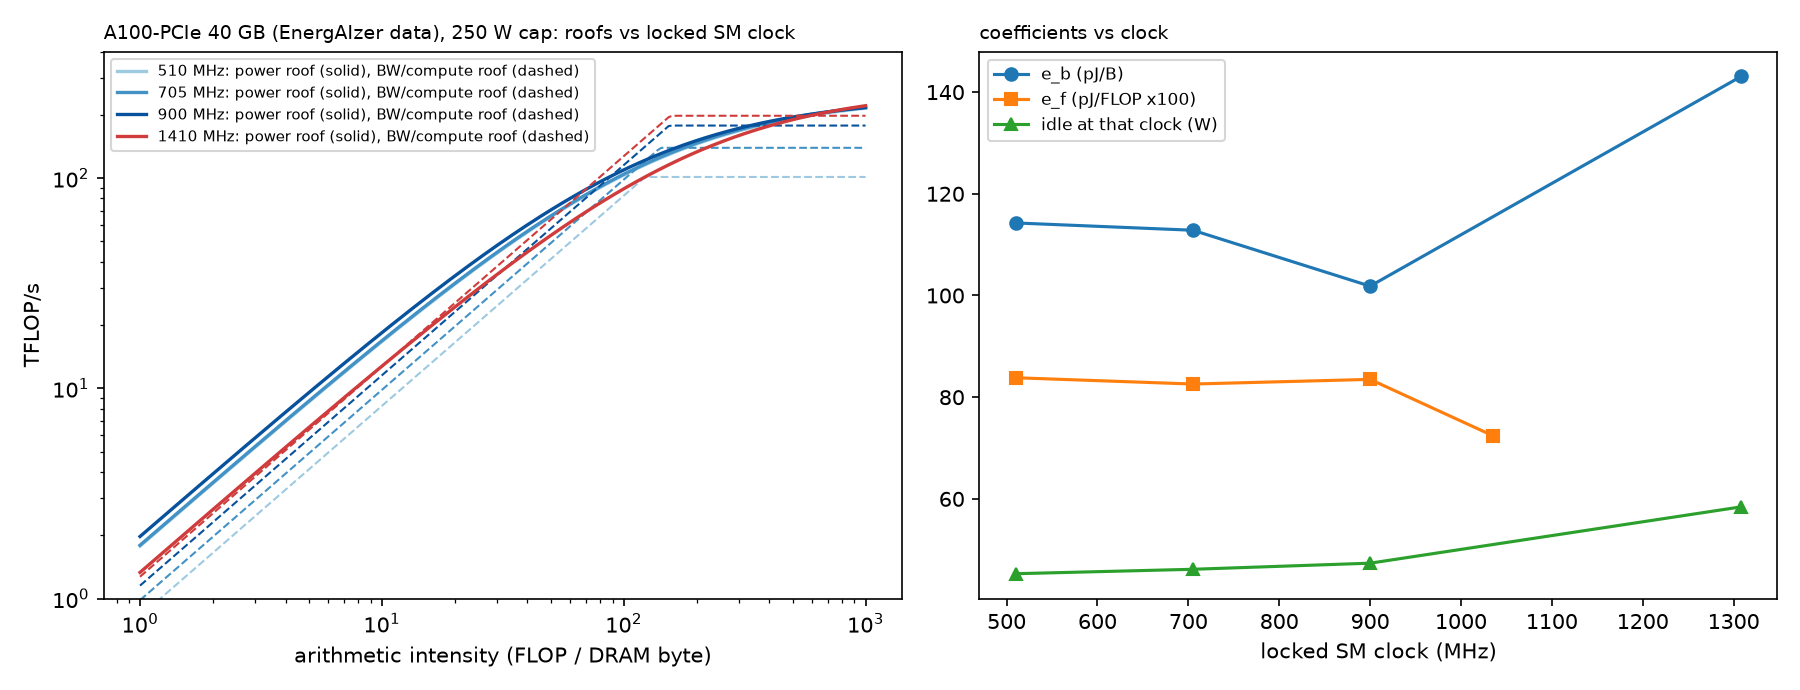
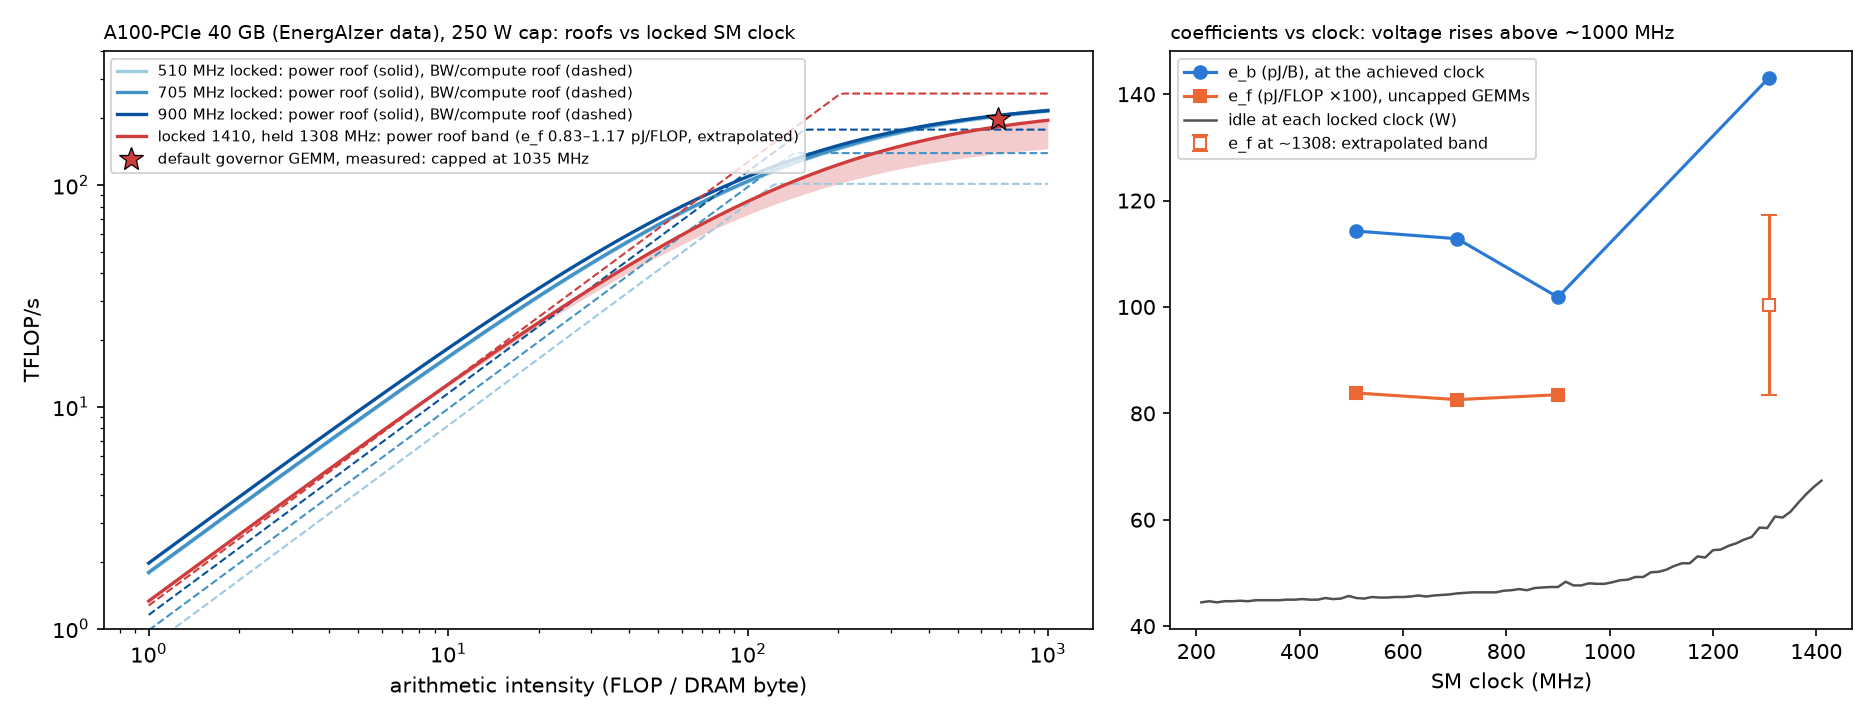
Clock roof: coefficients only from uncapped runs; at full clock the A100-PCIe 250 W cap binds from I ~ 10 up
The full-clock row used the default governor's capped GEMMs (1035 MHz, 243 W) as its compute
roof and fitted e_f from them against 1308 MHz idle and e_b: circular, and e_f biased low
(0.72). Now the row sits at the achieved 1308 MHz with measured BW, e_b and idle; the compute
roof is the locked clocks' linear 0.198 TF/s per MHz; e_f is a 0.83-1.17 pJ/FLOP band since no
GEMM above 900 MHz ran uncapped. The default governor's GEMM is plotted as a measured point.
Result: the cap binds from intensity ~10 up, including large GEMMs; an ideal governor still
loses 14-33% at I >= 100. LIT_ENERGAIZER: CUDA_Bench GEMMs use +-1 constant inputs, so e_f is
a low-activity floor.

diff --git a/GPU_power/liminal_energy/energaizer_clock_roof.py b/GPU_power/liminal_energy/energaizer_clock_roof.py
@@ -13,6 +13,16 @@ Per locked SM clock f (510, 705, 900, 1410 MHz; 'nolock' = the default governor)
 Power roof at the cap:  phi_P(I) = (P_cap - P_idle(f)) / (e_b/I + e_f)
 Attainable at clock f:  min(BW(f) * I, F(f), phi_P(I)); the envelope over f is what an
 ideal clock governor at the cap could reach.
+
+Coefficients come only from runs below the cap. 510/705/900 MHz are uncapped. At 1410 MHz there is
+a locked elementwise table, but it ran at ~1308 MHz at 240 W: e_b and BW are taken from it at its
+achieved clock and idle. There is no uncapped GEMM above 900 MHz (the default governor's GEMMs sit
+at the cap at ~1035 MHz), so at 1410:
+  The whole row sits at the achieved ~1308 MHz (even streaming cannot hold 1410 under the cap):
+  F        = the locked clocks' TF/MHz (linear: 0.198 at 510/705/900) x 1308
+  e_f      = a band: lo = e_f(900) (flat over 510-900 MHz), hi = e_f(900) * e_b(1410)/e_b(900)
+             (the per-byte energy's rise from 900 to ~1308 MHz as a voltage proxy)
+The default governor's capped GEMM is plotted as a measured point, not used as a roof.
   python3 liminal_energy/energaizer_clock_roof.py [--db /shared_data0/adsampat/lit/energaizer]
 Writes liminal_energy/energaizer_clock_roof.json and figs/fig_clock_roof.png.
 """
@@ -20,6 +30,7 @@ import argparse
 import json
 import os
 
+import numpy as np
 import pandas as pd
 
 HERE = os.path.dirname(os.path.abspath(__file__))
@@ -46,8 +57,9 @@ def load(db):
         pid = idle[str(int(round(fclk / 15) * 15))] if f != "nolock" else None
         r = dict(clock=f, elem_sm_mhz=fclk, bw=float(big.bw.median()), p_stream=float(big.P.median()),
                  p_idle=pid, n_elem=int(len(big)))
-        # no locked-1410 GEMM table: the default governor's GEMMs run at 1410 MHz (at the cap)
-        g = os.path.join(db, f"db/yz8_gemmex_bf16bf16_freq{'nolock' if f == '1410' else f}_noflush_lut_v2.csv")
+        # no locked-1410 GEMM table, and the default governor's GEMMs are capped (~1035 MHz): 1410's
+        # compute roof and e_f are extrapolated from the uncapped locked clocks in main()
+        g = os.path.join(db, f"db/yz8_gemmex_bf16bf16_freq{f}_noflush_lut_v2.csv")
         if os.path.exists(g):
             G = pd.read_csv(g)
             G["F"] = 2.0 * G.batch * G.dimM * G.dimN * G.dimK
@@ -73,7 +85,7 @@ def coefficients(r):
     pi_g = r["p_idle"] if r["p_idle"] is not None else r["p_idle_gemm"]
     e_b = (r["p_stream"] - pi_e) / r["bw"]
     e_f = None
-    if r.get("f_rate"):
+    if r.get("f_rate") and r.get("p_gemm") is not None:
         e_f = (r["p_gemm"] - pi_g - e_b * r["b_rate_gemm"]) / r["f_rate"]
     return dict(e_b=e_b, e_f=e_f, p_idle=pi_e)
 
@@ -96,14 +108,42 @@ def main():
     res = {}
     print(f"{'clock':>7} {'SM MHz':>7} {'idle W':>7} {'BW GB/s':>8} {'pJ/B':>6} {'TF/s':>6} {'pJ/FLOP':>8} "
           f"{'P_gemm':>7} | attainable TF/s (bound) at I = " + " ".join(f"{i:>6}" for i in IS))
+    # 1410: compute roof and e_f band from the uncapped locked clocks (see the docstring)
+    lk = [f for f in ("510", "705", "900") if data.get(f, {}).get("f_rate")]
+    tf_per_mhz = float(np.median([data[f]["f_rate"] / data[f]["gemm_sm_mhz"] for f in lk]))
+    c900 = coefficients(data["900"])
+    if "1410" in data:
+        r = data["1410"]
+        c14 = coefficients(r)
+        r.update(gemm_sm_mhz=r["elem_sm_mhz"], f_rate=tf_per_mhz * r["elem_sm_mhz"], b_rate_gemm=0.0, p_gemm=None, n_gemm=0,
+                 extrapolated=True, e_f_lo=c900["e_f"], e_f_hi=c900["e_f"] * c14["e_b"] / c900["e_b"],
+                 tf_per_mhz=tf_per_mhz)
     for f, r in data.items():
         c = coefficients(r)
+        if r.get("extrapolated"):
+            c["e_f"] = r["e_f_lo"]           # optimistic end of the band (highest power roof)
+        if f == "nolock":
+            r["capped"] = True             # default governor at the cap: a measured point, not a roof
         rows = [roof(r, c, I) for I in IS]
         res[f] = dict(r, **c, roof=rows)
         print(f"{f:>7} {r['elem_sm_mhz']:7.0f} {c['p_idle']:7.1f} {r['bw'] / 1e9:8.0f} {c['e_b'] * 1e12:6.0f} "
-              f"{r.get('f_rate', 0) / 1e12:6.0f} {(c['e_f'] or 0) * 1e12:8.2f} {r.get('p_gemm', 0):7.0f} | "
+              f"{r.get('f_rate', 0) / 1e12:6.0f} {(c['e_f'] or 0) * 1e12:8.2f} {(r.get('p_gemm') or 0):7.0f} | "
               + " ".join(f"{x['attainable_tf']:5.1f}{x['bound'][0]}" for x in rows))
     locked = [f for f in res if f != "nolock" and res[f].get("e_f") is not None]
+    # 1410 with the pessimistic end of the e_f band
+    if "1410" in res:
+        r = res["1410"]; ch = dict(e_b=r["e_b"], e_f=r["e_f_hi"], p_idle=r["p_idle"])
+        r["roof_hi_ef"] = [roof(r, ch, I) for I in IS]
+    # what the default governor actually got on its capped GEMMs
+    if "nolock" in res:
+        n = res["nolock"]
+        n["gemm_I"] = n["f_rate"] / n["b_rate_gemm"]
+        print(f"\ndefault governor GEMM (capped): {n['f_rate'] / 1e12:.0f} TF/s at {n['gemm_sm_mhz']:.0f} MHz, "
+              f"{n['p_gemm']:.0f} W, I = {n['gemm_I']:.0f}")
+    if "1410" in res:
+        r = res["1410"]
+        print(f"1410 lock (ran {r['elem_sm_mhz']:.0f} MHz) extrapolated: F = {r['f_rate'] / 1e12:.0f} TF/s ({r['tf_per_mhz'] / 1e9:.3f} TF/GHz), "
+              f"e_f band {r['e_f_lo'] * 1e12:.2f}-{r['e_f_hi'] * 1e12:.2f} pJ/FLOP, idle {r['p_idle']:.1f} W")
     env = []
     for k, I in enumerate(IS):
         best = max(locked, key=lambda f: res[f]["roof"][k]["attainable_tf"])
@@ -123,32 +163,49 @@ def plot(res, env):
     import matplotlib
     matplotlib.use("Agg")
     import matplotlib.pyplot as plt
-    import numpy as np
     Is = np.logspace(0, 3, 200)
-    fig, ax = plt.subplots(1, 2, figsize=(12, 4.6))
+    fig, ax = plt.subplots(1, 2, figsize=(12.5, 4.8), gridspec_kw=dict(width_ratios=[1.45, 1]))
     cols = {"510": "#9ecae1", "705": "#4292c6", "900": "#08519c", "1410": "#d03b3b"}
     a = ax[0]
     for f, col in cols.items():
         if f not in res or res[f].get("e_f") is None:
             continue
-        r, c = res[f], res[f]
+        r = res[f]
         un = [min(r["bw"] * I, r["f_rate"]) / 1e12 for I in Is]
-        pr = [(P_CAP - c["p_idle"]) / (c["e_b"] / I + c["e_f"]) / 1e12 for I in Is]
         a.plot(Is, un, color=col, ls="--", lw=1)
-        a.plot(Is, pr, color=col, lw=1.6, label=f"{f} MHz: power roof (solid), BW/compute roof (dashed)")
+        if r.get("extrapolated"):
+            lo = [(P_CAP - r["p_idle"]) / (r["e_b"] / I + r["e_f_hi"]) / 1e12 for I in Is]
+            hi = [(P_CAP - r["p_idle"]) / (r["e_b"] / I + r["e_f_lo"]) / 1e12 for I in Is]
+            a.fill_between(Is, lo, hi, color=col, alpha=0.25, lw=0)
+            a.plot(Is, hi, color=col, lw=1.6,
+                   label=f"locked 1410, held {r['elem_sm_mhz']:.0f} MHz: power roof band (e_f {r['e_f_lo'] * 1e12:.2f}–{r['e_f_hi'] * 1e12:.2f} pJ/FLOP, extrapolated)")
+        else:
+            pr = [(P_CAP - r["p_idle"]) / (r["e_b"] / I + r["e_f"]) / 1e12 for I in Is]
+            a.plot(Is, pr, color=col, lw=1.6, label=f"{f} MHz locked: power roof (solid), BW/compute roof (dashed)")
+    if "nolock" in res and res["nolock"].get("gemm_I"):
+        n = res["nolock"]
+        a.plot([min(n["gemm_I"], 1000)], [n["f_rate"] / 1e12], "*", ms=12, color="#d03b3b", mec="k", mew=0.6, zorder=5,
+               label=f"default governor GEMM, measured: capped at {n['gemm_sm_mhz']:.0f} MHz")
     a.set_xscale("log"); a.set_yscale("log"); a.set_ylim(1, 400)
     a.set_xlabel("arithmetic intensity (FLOP / DRAM byte)"); a.set_ylabel("TFLOP/s")
     a.set_title("A100-PCIe 40 GB (EnergAIzer data), 250 W cap: roofs vs locked SM clock", loc="left", fontsize=9)
-    a.legend(fontsize=7)
+    a.legend(fontsize=7, loc="upper left")
     a = ax[1]
     fs = [f for f in ["510", "705", "900", "1410"] if f in res]
     x = [float(res[f]["elem_sm_mhz"]) for f in fs]
-    a.plot(x, [res[f]["e_b"] * 1e12 for f in fs], "o-", label="e_b (pJ/B)")
-    a.plot([float(res[f]["gemm_sm_mhz"]) for f in fs if res[f].get("e_f")],
-           [res[f]["e_f"] * 1e12 * 100 for f in fs if res[f].get("e_f")], "s-", label="e_f (pJ/FLOP x100)")
-    a.plot(x, [res[f]["p_idle"] for f in fs], "^-", label="idle at that clock (W)")
-    a.set_xlabel("locked SM clock (MHz)"); a.legend(fontsize=8)
-    a.set_title("coefficients vs clock", loc="left", fontsize=9)
+    a.plot(x, [res[f]["e_b"] * 1e12 for f in fs], "o-", color="#2a78d6", label="e_b (pJ/B), at the achieved clock")
+    lk = [f for f in fs if not res[f].get("extrapolated")]
+    a.plot([float(res[f]["gemm_sm_mhz"]) for f in lk], [res[f]["e_f"] * 1e12 * 100 for f in lk], "s-", color="#eb6834",
+           label="e_f (pJ/FLOP ×100), uncapped GEMMs")
+    if "1410" in res:
+        r = res["1410"]
+        a.errorbar([r["elem_sm_mhz"]], [(r["e_f_lo"] + r["e_f_hi"]) / 2 * 1e14], yerr=[[(r["e_f_hi"] - r["e_f_lo"]) / 2 * 1e14]] * 2,
+                   fmt="s", mfc="white", color="#eb6834", capsize=4, label="e_f at ~1308: extrapolated band")
+    idle = json.load(open(os.path.join(HERE, "energaizer_clock_roof.json")))["idle_vs_clock"]
+    ks = sorted(idle, key=float)
+    a.plot([float(k) for k in ks], [idle[k] for k in ks], "-", color="#52514e", lw=1.2, label="idle at each locked clock (W)")
+    a.set_xlabel("SM clock (MHz)"); a.legend(fontsize=7.5)
+    a.set_title("coefficients vs clock: voltage rises above ~1000 MHz", loc="left", fontsize=9)
     fig.tight_layout()
     os.makedirs(os.path.join(HERE, "figs"), exist_ok=True)
     fig.savefig(os.path.join(HERE, "figs", "fig_clock_roof.png"), dpi=150)

diff --git a/GPU_power/LIT_ENERGAIZER.md b/GPU_power/LIT_ENERGAIZER.md
@@ -53,7 +53,7 @@ below is (P − P_idle) / achieved bandwidth:
 | A100-PCIe (HBM2) | 510 MHz | 825 GB/s (0.53) | 114 pJ/B |
 | A100-PCIe (HBM2) | 705 MHz | 983 GB/s (0.63) | 113 pJ/B |
 | A100-PCIe (HBM2) | 900 MHz | 1152 GB/s (0.74) | 113 pJ/B |
-| A100-PCIe (HBM2) | 1410 MHz | 1270 GB/s (0.82) | 136 pJ/B (higher core voltage) |
+| A100-PCIe (HBM2) | 1410 MHz lock, held ~1308 at the cap | 1270 GB/s (0.82) | 136 pJ/B (higher core voltage) |
 | A10 (GDDR6) | 900 MHz | 453 GB/s (0.76) | ~150 pJ/B (baseline is tiny-kernel power; true idle unknown) |
 
 These include the kernel's own SM and L2 power, so they are an upper bound on DRAM-only
@@ -76,6 +76,34 @@ energy.
   on-chip share scales with V²f. Our serving runs use default boost clocks, so our
   lumped `e_wbyte` includes a clock-dependent on-chip share. Our A5000 L2 data shows the
   same effect.
+
+## Power roof vs SM clock (`liminal_energy/energaizer_clock_roof.py`, `figs/fig_clock_roof.png`)
+Power roof at the 250 W cap, φ_P(I) = (P_cap − P_idle(f)) / (e_b/I + e_f), per clock, with
+coefficients **only from runs below the cap** (corrected 2026-11-20; the first version used the
+default governor's capped GEMMs as the full-clock compute roof and e_f, which was circular and
+biased e_f low to 0.72 pJ/FLOP).
+- 510/705/900 MHz are uncapped: e_f = 0.83–0.84 pJ/FLOP (flat), GEMM rate linear in clock
+  (0.198 TF/s per MHz). Idle rises from 47 W at 900 MHz to 67 W at 1410: voltage climbs above
+  ~1000 MHz, and e_b rises 102 → 143 pJ/B from 900 to 1308 MHz.
+- Even streaming cannot hold a 1410 lock under the cap (ran at 1308 MHz, 240 W), so the
+  full-clock row is at 1308 MHz. No uncapped GEMM exists above 900 MHz, so its e_f is a band,
+  0.83–1.17 pJ/FLOP (flat value, up to scaled by e_b's rise), and its compute roof 259 TF/s is
+  the linear clock scaling.
+- **At full clock the cap binds from intensity ~10 upward**, including large GEMMs: the power
+  roof is 0.90× the unconstrained roof at I = 30, 0.58–0.67× at 100, 0.45–0.56× at 300–1000.
+  Decode-like intensity (1–10) stays bandwidth-bound, at the edge at 10.
+- **Dropping the clock recovers part of it.** The best roof over clocks (an ideal governor)
+  loses 9% at I = 30, 14% at 100, 33% at 300, ~24% at 1000 against the full-clock roofline;
+  900 MHz is best for I = 30–300. The default governor's GEMMs (capped at 1035 MHz) reach
+  198 TF/s, above the full-clock power band (146–196 TF/s) at their I ≈ 680.
+- **The GEMM inputs are low-activity constants, so e_f is a floor.** CUDA_Bench
+  (`include/CUDA_Bench/gemm/gemm_cublas_launch_fp.cuh`) fills A and B with ±1.0 by column
+  parity and C with 0; with A alternating along k, every output is 0 for even K, and ±1.0 has
+  an all-zero mantissa. That is close to the zero-input case. Real-data GEMMs draw more:
+  LBNL SC'25 splits A100 FP16 matrix energy into 0.37 pJ/FLOP control + 0.33 datapath (random
+  inputs), and Meta's Power Roofline (MICRO 2026) gets 1.70x the throughput at a fixed B200 cap
+  with zeros vs random. So with real data e_f is higher, the power roof lower, and the cap binds
+  harder at high intensity than drawn here. Our own serving fits use real weights.
 
 ## What to adopt
 1. **Steady-state streaming proxy (the PI's "blast HBM"):** a ≥1 GB read or copy
